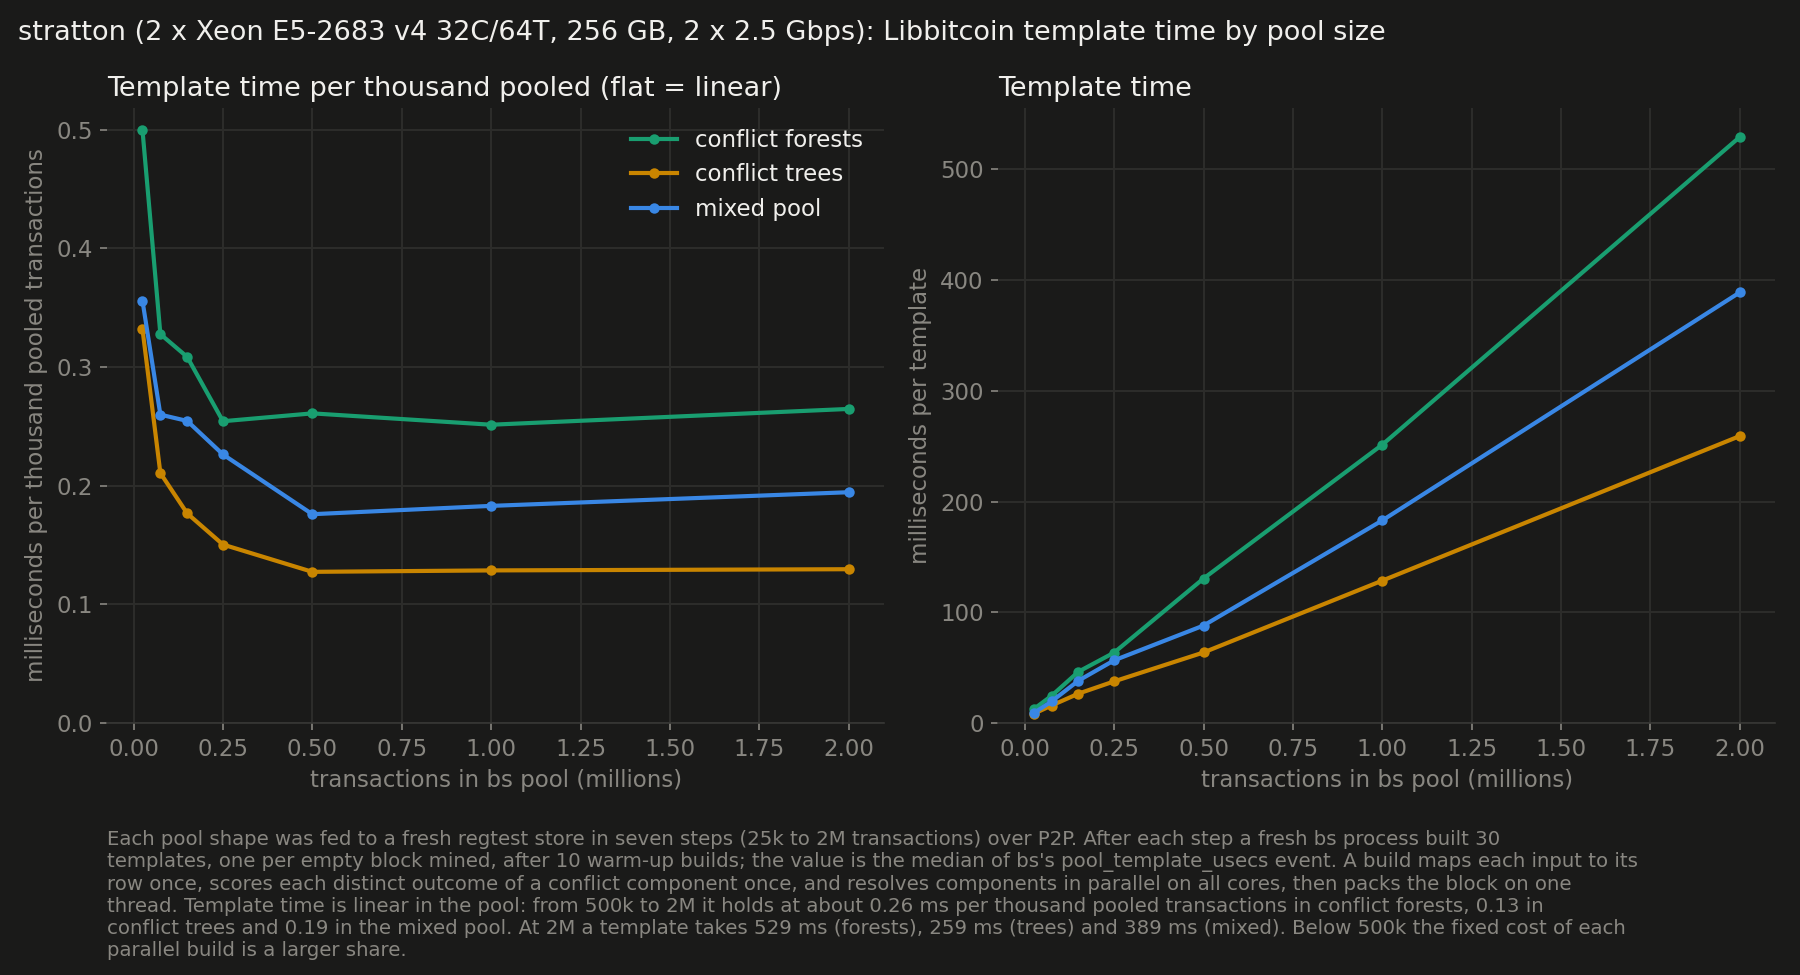
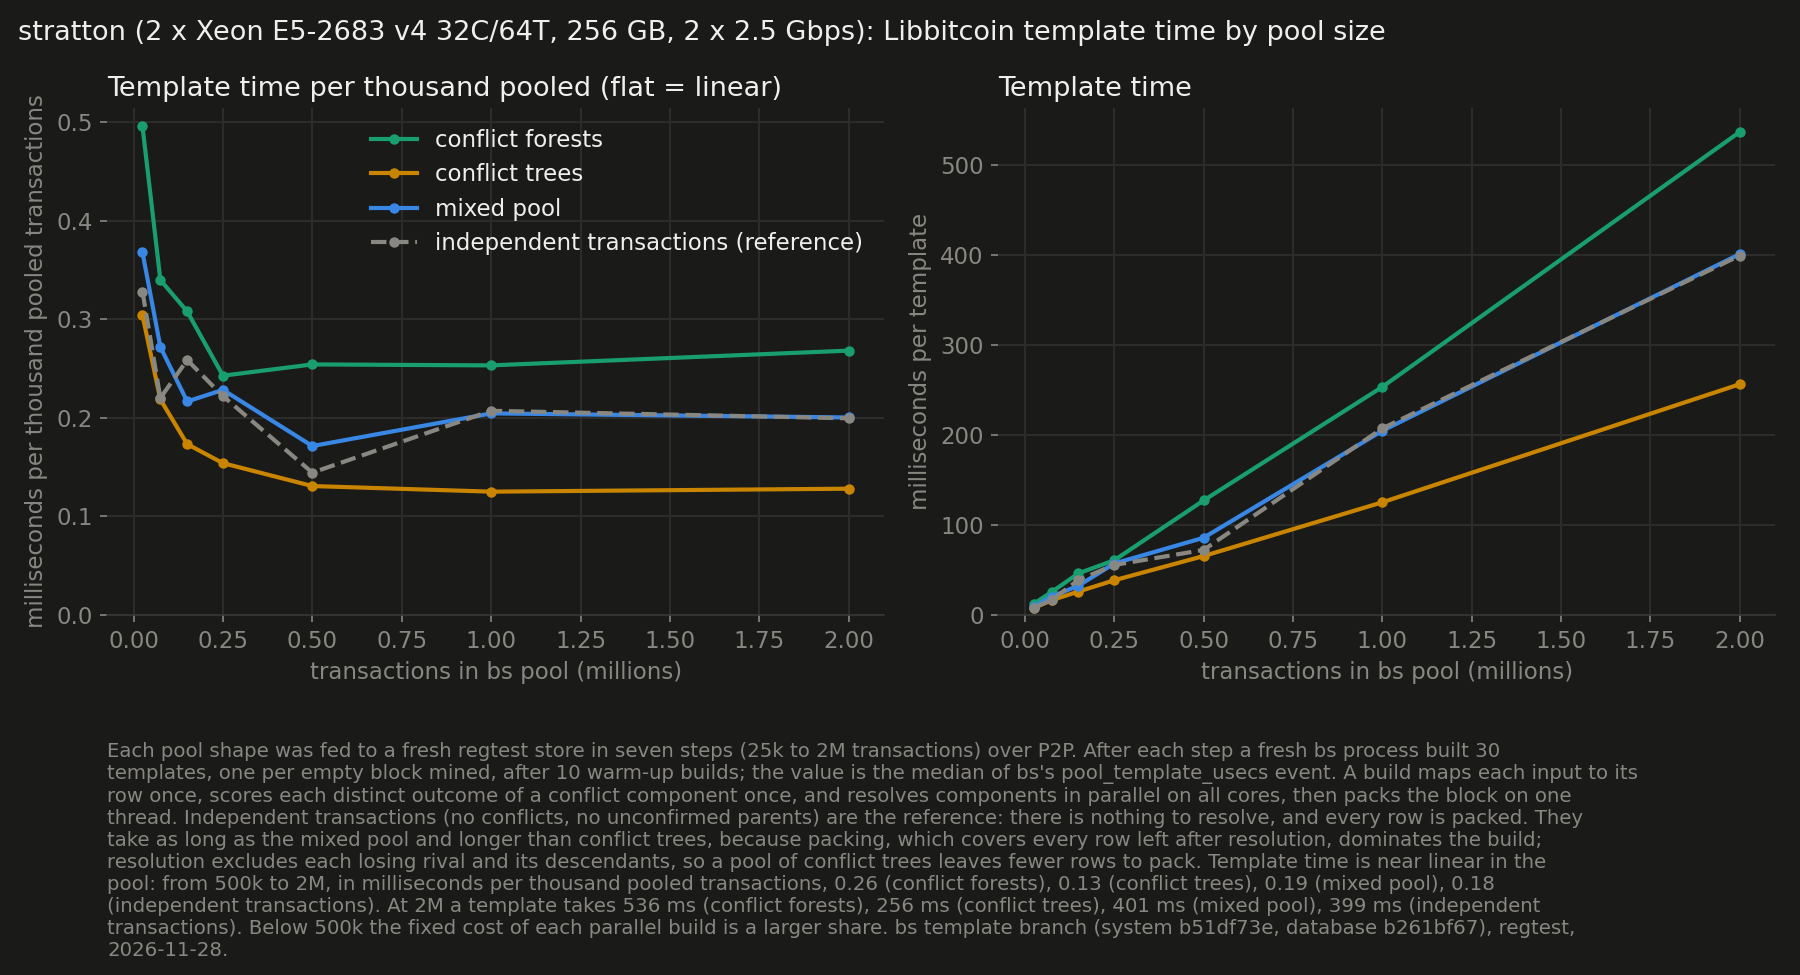
Replace the template charts with current stratton measurements.

diff --git a/mining.html b/mining.html
@@ -539,16 +539,16 @@
         <a href="performance/pool-scale-memory.png"><img src="performance/pool-scale-memory.png" alt="Working set by pool size" loading="lazy"></a>
       </figure>
       <figure class="shot">
-        <h3>Template computation by pool size</h3>
-        <a href="performance/pool-scale-template.png"><img src="performance/pool-scale-template.png" alt="Template computation by pool size" loading="lazy"></a>
+        <h3>Template time by pool size</h3>
+        <a href="performance/pool-template-sweep.png"><img src="performance/pool-template-sweep.png" alt="Template time by pool size" loading="lazy"></a>
       </figure>
       <figure class="shot">
-        <h3>Template computation profile at 2 million pooled</h3>
-        <a href="performance/pool-scale-template-profile.png"><img src="performance/pool-scale-template-profile.png" alt="Template computation profile at 2 million pooled" loading="lazy"></a>
+        <h3>Block found to stratum job by pool size</h3>
+        <a href="performance/pool-scale-template.png"><img src="performance/pool-scale-template.png" alt="Block found to stratum job by pool size" loading="lazy"></a>
       </figure>
       <figure class="shot">
-        <h3>Template time by pool size, by pool shape</h3>
-        <a href="performance/pool-template-sweep.png"><img src="performance/pool-template-sweep.png" alt="Template time by pool size, by pool shape" loading="lazy"></a>
+        <h3>Template time profile at 2 million pooled</h3>
+        <a href="performance/pool-scale-template-profile.png"><img src="performance/pool-scale-template-profile.png" alt="Template time profile at 2 million pooled" loading="lazy"></a>
       </figure>
     </div>
     <p class="lede after">
@@ -599,28 +599,29 @@
       rejections for Bitcoin Core while Libbitcoin admits every one.
     </p>
     <p class="lede after">
-      Template computation in Libbitcoin, timed in the running node, grows linearly at about 0.21 ms
-      per thousand pooled transactions, to 413 ms at 2 million, and the time from block found to
-      stratum job follows it, from 13 ms at 25,000 to 424 ms at 2 million. Each build, on one
-      CPU thread, resolves conflicts over every pooled transaction and packs from pool-sized state, so it scales with the
-      pool rather than the block. Conflict trees are the expensive case, every tree a component to
-      resolve: block found to stratum job takes 435 ms at 1 million and 794 ms at 2 million in the
-      trees-only pool (dashed), and in conflict forests, where resolution cost grows with the
-      conflict points per component, 1,129 ms at 1 million and 2,335 ms at 2 million (dotted). Of a median 435 ms build at 2 million pooled, about 49% is
-      resolving conflicts, of which finding the row that owns an input, by binary search over the
-      pool, is 23.6%; packing is about 30%; and allocating and zeroing pool-sized state, with its
-      page faults, is about 16%. Every build redoes this for the whole pool, even when only the
-      chain height changed.
-    </p>
-    <p class="lede after">
       On stratton, each pool shape was fed to a fresh store in steps from 25,000 to 2 million
-      transactions. A build maps each input to its row once, scores each distinct outcome of a
+      transactions, with independent transactions, which have nothing to resolve, as the
+      reference. A build maps each input to its row once, scores each distinct outcome of a
       conflict component once, and resolves components in parallel on all cores, then packs the
       block on one thread. Template time is linear in the pool: from 500,000 to 2 million it holds
       at about 0.26 ms per thousand pooled transactions in conflict forests, 0.13 ms in conflict
-      trees and 0.19 ms in the mixed pool. At 2 million a template takes 529 ms in conflict
-      forests, 259 ms in conflict trees and 389 ms in the mixed pool. Below 500,000 the fixed cost
-      of each parallel build is a larger share.
+      trees, 0.19 ms in the mixed pool and 0.18 ms for independent transactions. At 2 million a
+      template takes 536 ms in conflict forests, 256 ms in conflict trees, 401 ms in the mixed
+      pool and 399 ms for independent transactions. Below 500,000 the fixed cost of each parallel
+      build is a larger share.
+    </p>
+    <p class="lede after">
+      Packing dominates the build and covers every row left after resolution, so independent
+      transactions take as long as the mixed pool and longer than conflict trees: resolution
+      excludes each losing rival and its descendants, leaving fewer rows to pack. Of a median
+      380 ms build at 2 million in the mixed pool, reading the pool columns takes 8 ms and
+      resolution 23 ms of wall time (416 ms of CPU, on average 18 of 64 threads busy). Packing
+      takes about 262 ms on one thread: forming clusters 86 ms, holding closures 53 ms, and
+      offers, heaps and closure 123 ms. Page faults, zeroing and copies take 94 ms, as each build
+      allocates and releases pool-sized working vectors. The time from block found to stratum job
+      trails the template build by 9 to 29 ms at every step, 565 ms in conflict forests, 284 ms in
+      conflict trees, 422 ms in the mixed pool and 414 ms for independent transactions at 2
+      million, and every block produced a job.
     </p>
   </section>
 
